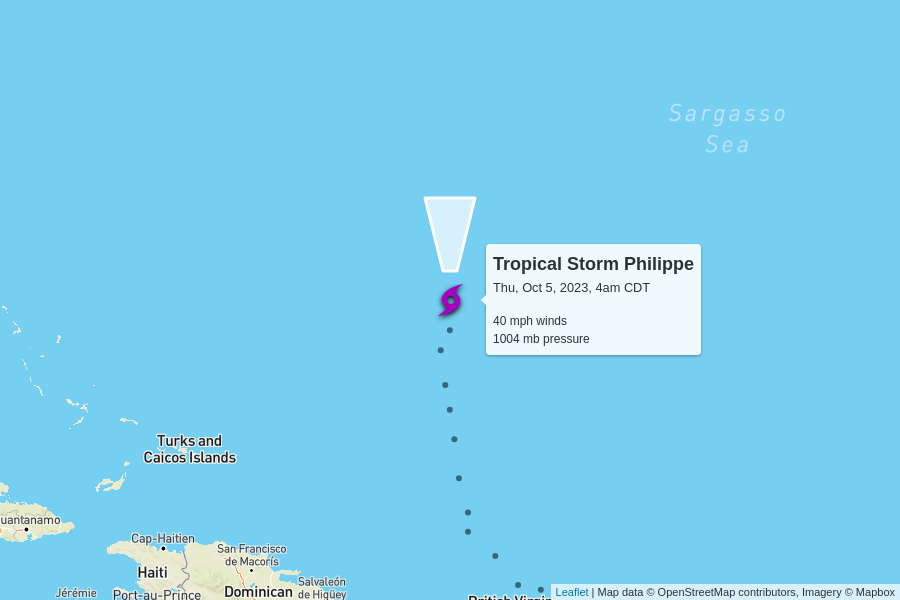
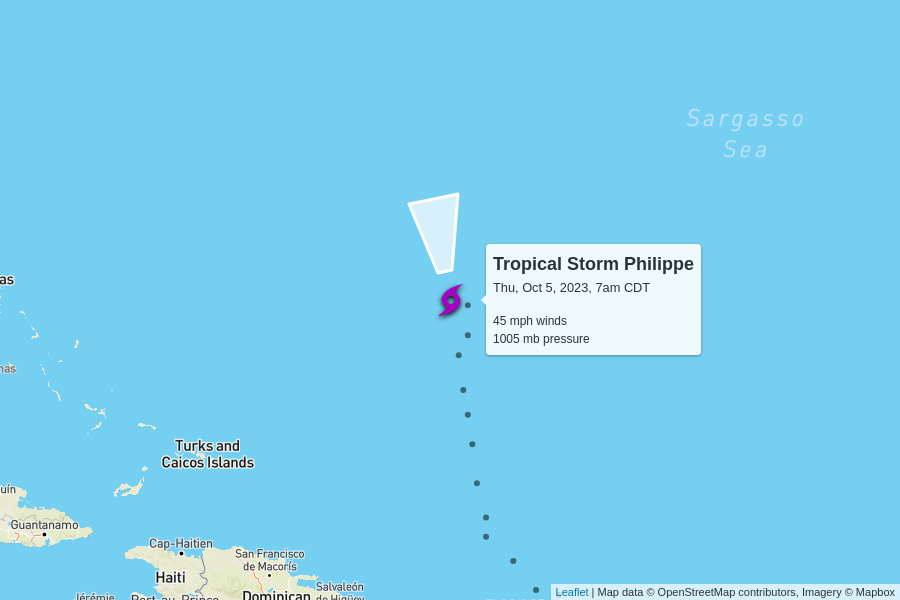
automatic update

diff --git a/docs/index.html b/docs/index.html
@@ -102,7 +102,7 @@
         <td colspan="6" class="storm category-0" >
           <h2>
             Tropical Storm Philippe
-            <p class="updated">last updated <span data-time>2023-10-05T09:00:00.000Z</span></p>
+            <p class="updated">last updated <span data-time>2023-10-05T12:00:00.000Z</span></p>
           </h2>
         </td>
       </tr>
@@ -117,12 +117,12 @@
       </tr>
       <tr>
         <td class="spacer"></td>
-        <td>40 mph<br>0 mph since last update</td>
-        <td>1004 mb<br>0 mb since last update</td>
+        <td>45 mph<br>+5 mph since last update</td>
+        <td>1005 mb<br>+1 mb since last update</td>
         <td>
-          14 mph to the north
+          10 mph to the north
           <br/>
-          <span style="display: inline-block; font-size: 1.5em; transform: rotate(360deg);">↑</span>
+          <span style="display: inline-block; font-size: 1.5em; transform: rotate(350deg);">↑</span>
         </td>
         <td><a href="https://raw.githubusercontent.com/mgwalker/atlantic-hurricanes/main/data/csv/AL172023.csv">AL172023.csv</a></td>
         <td><a href="https://www.nhc.noaa.gov/archive/2023/PHILIPPE.shtml?">NHC advisories</a></td>
